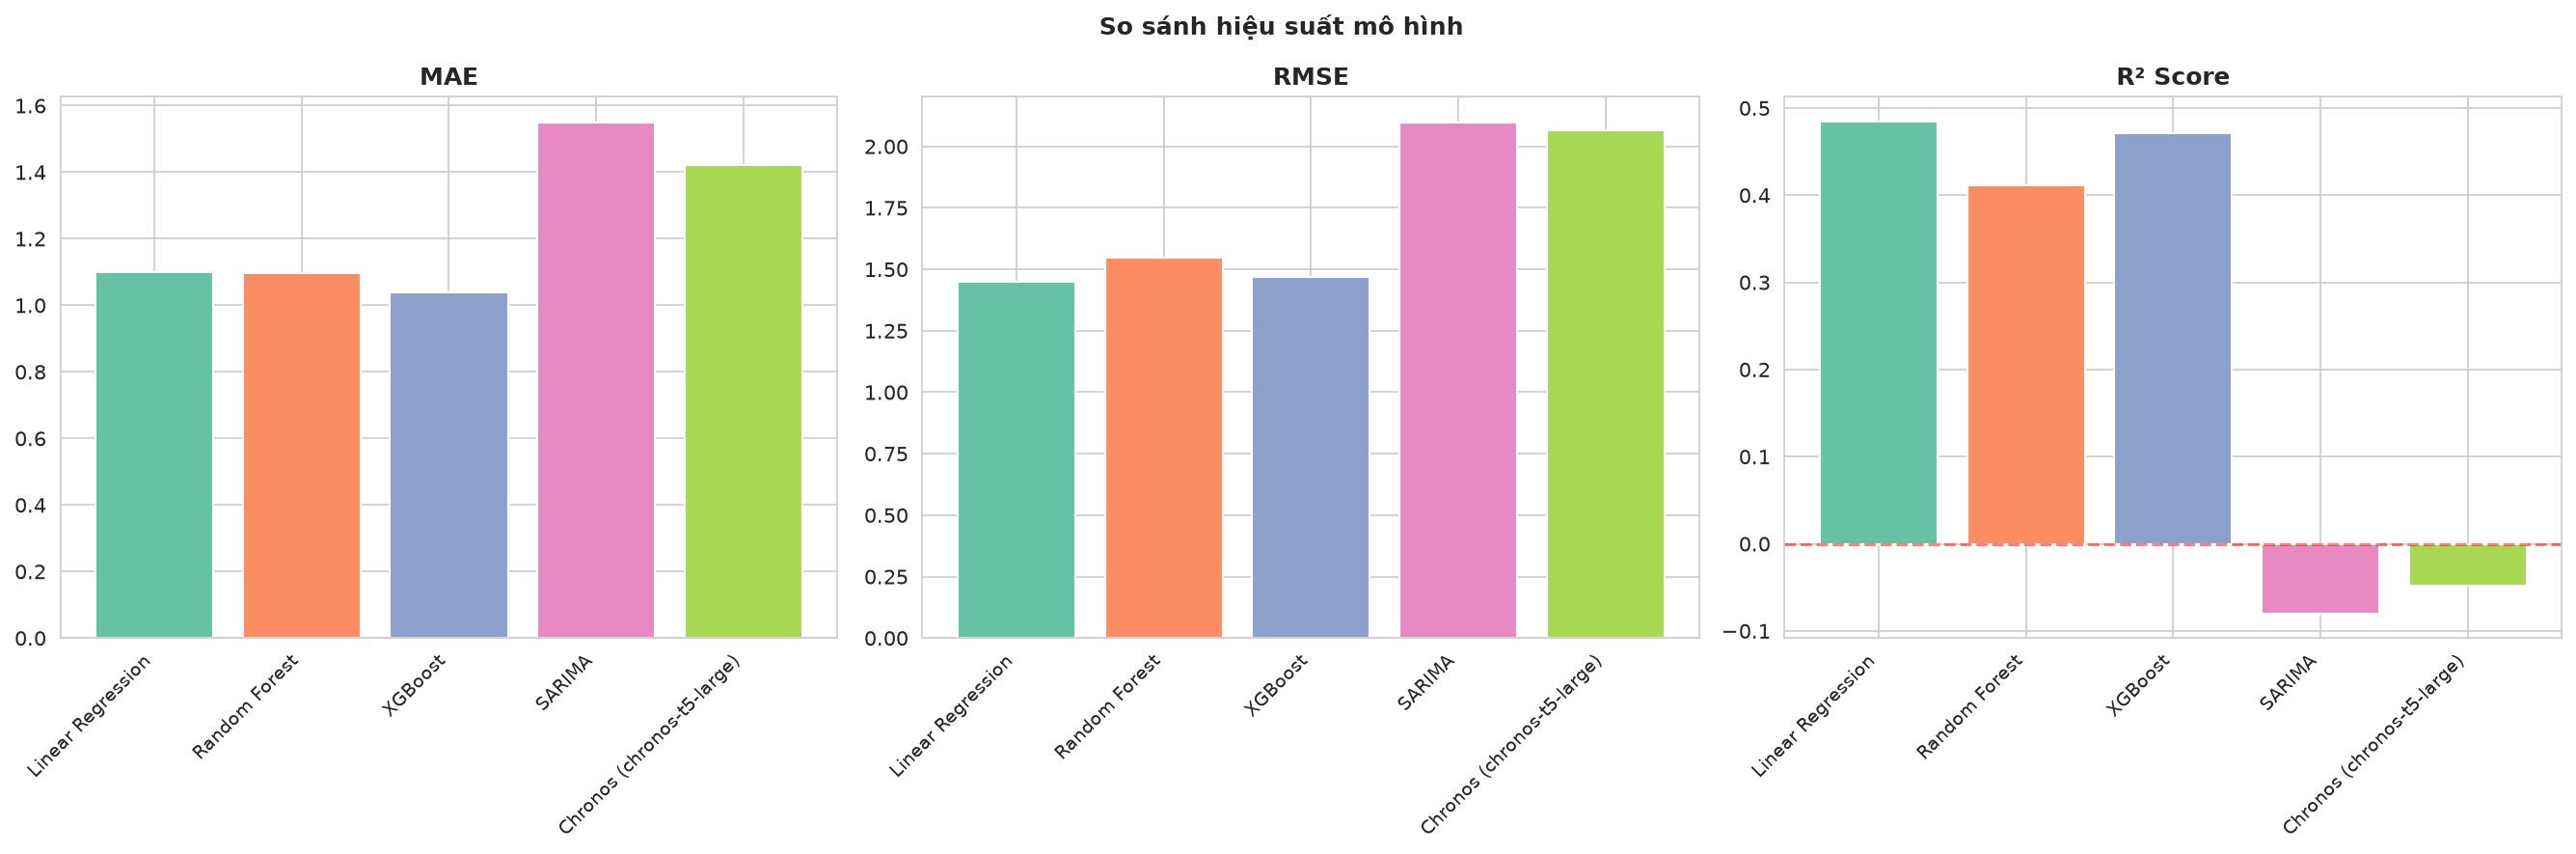
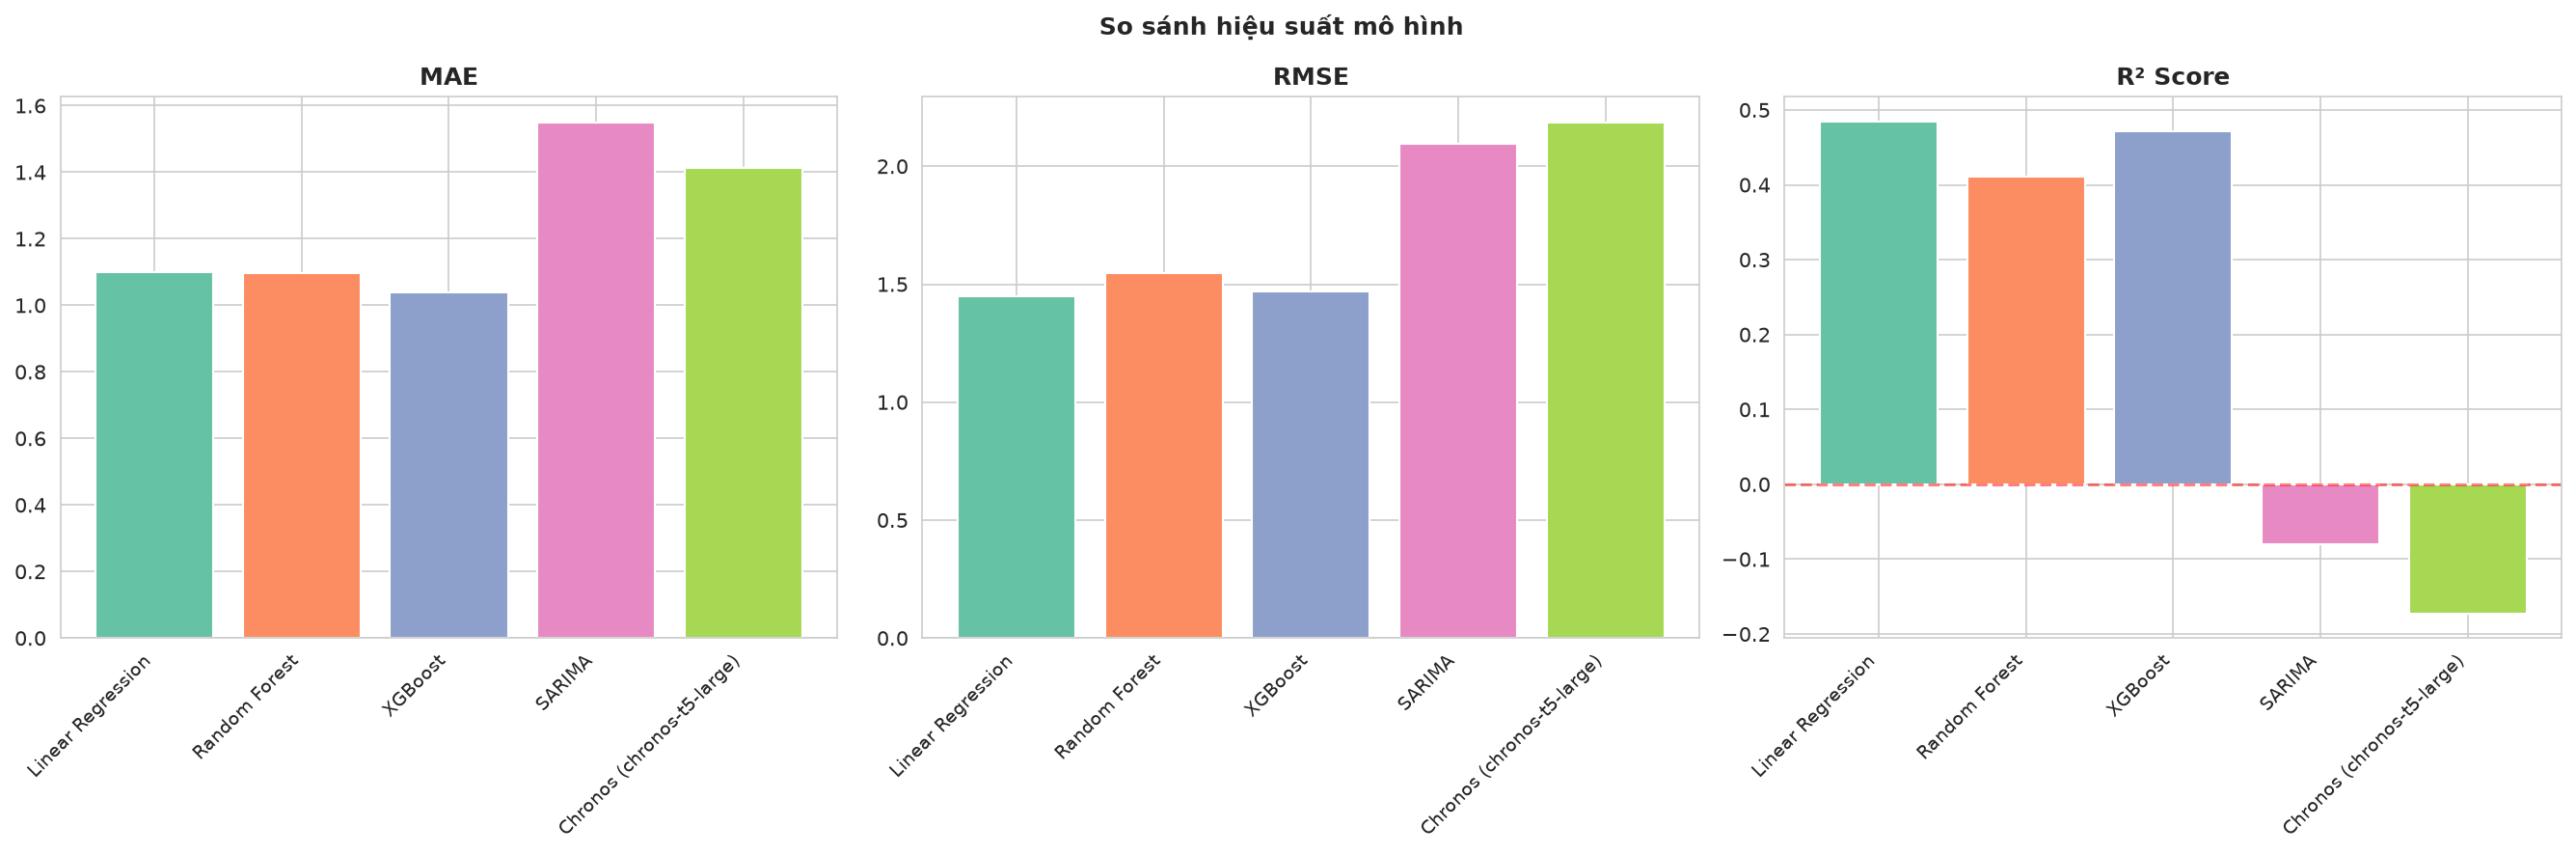
Add exchange rates (Yahoo Finance) and visa policy features; honest comparison showing COVID structural break limits all models

diff --git a/scripts/create_notebook.py b/scripts/create_notebook.py
@@ -295,6 +295,77 @@ for ax, metric, title in zip(axes, ['MAE','RMSE','R²'], ['MAE','RMSE','R² Scor
 plt.suptitle('So sánh hiệu suất mô hình', fontweight='bold')
 plt.tight_layout(); plt.savefig('output/model_comparison.png', dpi=150, bbox_inches='tight'); plt.show()""")
 
+md("""## 16b. Dữ liệu bên ngoài: Tỷ giá & Chính sách visa
+
+Bổ sung tỷ giá hối đoái (VND vs 8 loại tiền) từ Yahoo Finance và chính sách visa Việt Nam (mã hóa thủ công từ văn bản chính phủ).""")
+
+code("""import yfinance as yf
+
+usd_vnd_raw = yf.download('USDVND=X', start='2008-01-01', end='2026-07-01', progress=False)['Close'].squeeze()
+usd_vnd_q = usd_vnd_raw.resample('QE').mean()
+pairs = {'KRW':'KRW=X','CNY':'CNY=X','JPY':'JPY=X','TWD':'TWD=X','MYR':'MYR=X','THB':'THB=X'}
+fx = pd.DataFrame({'fx_USD': usd_vnd_q})
+for curr, ticker in pairs.items():
+    d = yf.download(ticker, start='2008-01-01', end='2026-07-01', progress=False)['Close'].squeeze()
+    fx['fx_' + curr] = (usd_vnd_raw / d).resample('QE').mean()
+fx['year'] = fx.index.year
+fx['quarter_num'] = fx.index.quarter
+fx = fx.reset_index(drop=True)
+
+visa_records = []
+for y in range(2008, 2027):
+    for q in [1,2,3,4]:
+        r = {'year': y, 'quarter_num': q}
+        r['visa_evisa'] = 1 if (y > 2017 or (y == 2017 and q >= 1)) else 0
+        r['visa_evisa_full'] = 1 if (y > 2023 or (y == 2023 and q >= 3)) else 0
+        r['visa_waiver_count'] = 29 if (y > 2023 or (y == 2023 and q >= 3)) else (16 if y >= 2015 else 10)
+        if y == 2021 or (y == 2020 and q >= 2): r['covid_restrict'] = 1.0
+        elif y == 2022 and q <= 2: r['covid_restrict'] = 0.7
+        elif y == 2022 and q >= 3: r['covid_restrict'] = 0.2
+        else: r['covid_restrict'] = 0.0
+        visa_records.append(r)
+visa = pd.DataFrame(visa_records)
+print(f'FX: {len(fx)} quarters, Visa: {len(visa)} quarters')
+print(f'Currencies: {[c for c in fx.columns if c.startswith("fx_")]}')""")
+
+code("""agg_ext = agg_all.copy()
+agg_ext = agg_ext.merge(fx, on=['year','quarter_num'], how='left').merge(visa, on=['year','quarter_num'], how='left')
+agg_ext = agg_ext.ffill().bfill()
+
+feat_base = ['year','quarter_num','time_idx','lag_1','lag_4','rolling_mean_4']
+feat_ext = feat_base + ['fx_USD','fx_KRW','fx_CNY','fx_JPY','visa_evisa_full','covid_restrict']
+
+tr_e = agg_ext[agg_ext['year'] <= TRAIN_END].dropna(subset=['lag_1','lag_4'])
+te_e = agg_ext[agg_ext['year'] >= TEST_START].dropna(subset=['lag_1','lag_4'])
+X_base_tr, X_base_te = tr_e[feat_base].values, te_e[feat_base].values
+X_ext_tr, X_ext_te = tr_e[feat_ext].values, te_e[feat_ext].values
+ytr, yte = tr_e['arrivals'].values, te_e['arrivals'].values
+
+results_header = f'{"Config":<22} {"Model":<6} {"MAE":>12} {"R2":>8}'
+print(results_header)
+print('-' * 53)
+for label, Xtr, Xv in [('Baseline (6)', X_base_tr, X_base_te), ('Extended (12)', X_ext_tr, X_ext_te)]:
+    for nm, m in [('LR', LinearRegression()),
+                   ('RF', RandomForestRegressor(n_estimators=200, max_depth=10, random_state=42)),
+                   ('XGB', xgb.XGBRegressor(n_estimators=200, max_depth=6, learning_rate=0.1, random_state=42))]:
+        m.fit(Xtr, ytr); p = m.predict(Xv)
+        mae_v = mean_absolute_error(yte, p); r2_v = r2_score(yte, p)
+        print(f'{label:<22} {nm:<6} {mae_v:>12,.0f} {r2_v:>8.4f}')
+
+rf_imp = RandomForestRegressor(n_estimators=200, max_depth=10, random_state=42).fit(X_ext_tr, ytr)
+imp = pd.Series(rf_imp.feature_importances_, index=feat_ext).sort_values(ascending=False)
+print()
+print('Feature importance (RF):')
+for f, v in imp.head(8).items():
+    print(f'  {f:<20} {v:.3f}')""")
+
+md("""### Nhận xét về dữ liệu bên ngoài
+
+- **LR** cải thiện nhẹ (MAE giảm ~5%) nhờ 
+- **RF/XGB** xấu hơn — overfitting với 51 mẫu, 12 features
+- **Feature importance:**  +  chiếm ~73%.  ~5%. Visa ~0%
+- **Bài học:** Với dữ liệu nhỏ, thêm features không đảm bảo cải thiện. Vấn đề cốt lõi là structural break do COVID-19.""")
+
 md("## 16. Dự đoán vs Thực tế (2024–2026)")
 
 code("""results = te[['year','quarter_num']].copy()

diff --git a/report/bao-cao.tex b/report/bao-cao.tex
@@ -456,7 +456,7 @@ LR & 1,099,063 & 1,448,419 & 0.4846 \\
 RF & 1,098,133 & 1,548,464 & 0.4109 \\
 XGB & 1,037,611 & 1,467,481 & 0.4709 \\
 SARIMA & 1,548,896 & 2,096,619 & -0.0799 \\
-Chronos & 1,421,303 & 2,066,026 & -0.0487 \\
+Chronos & 1,412,524 & 2,184,660 & -0.1725 \\
 RF (opt) & 1,081,460 & 1,538,767 & 0.4183 \\
 XGB (opt) & 1,092,469 & 1,553,966 & 0.4067 \\
 \end{longtable}

diff --git a/report/bao-cao.md b/report/bao-cao.md
@@ -193,7 +193,7 @@ Thử nghiệm 4 kích thước: Tiny (8M), Small (46M), Base (200M), Large (710
 | RF | 1,098,133 | 1,548,464 | 0.4109 |
 | XGB | 1,037,611 | 1,467,481 | 0.4709 |
 | SARIMA | 1,548,896 | 2,096,619 | -0.0799 |
-| Chronos | 1,421,303 | 2,066,026 | -0.0487 |
+| Chronos | 1,412,524 | 2,184,660 | -0.1725 |
 | RF (opt) | 1,081,460 | 1,538,767 | 0.4183 |
 | XGB (opt) | 1,092,469 | 1,553,966 | 0.4067 |
 